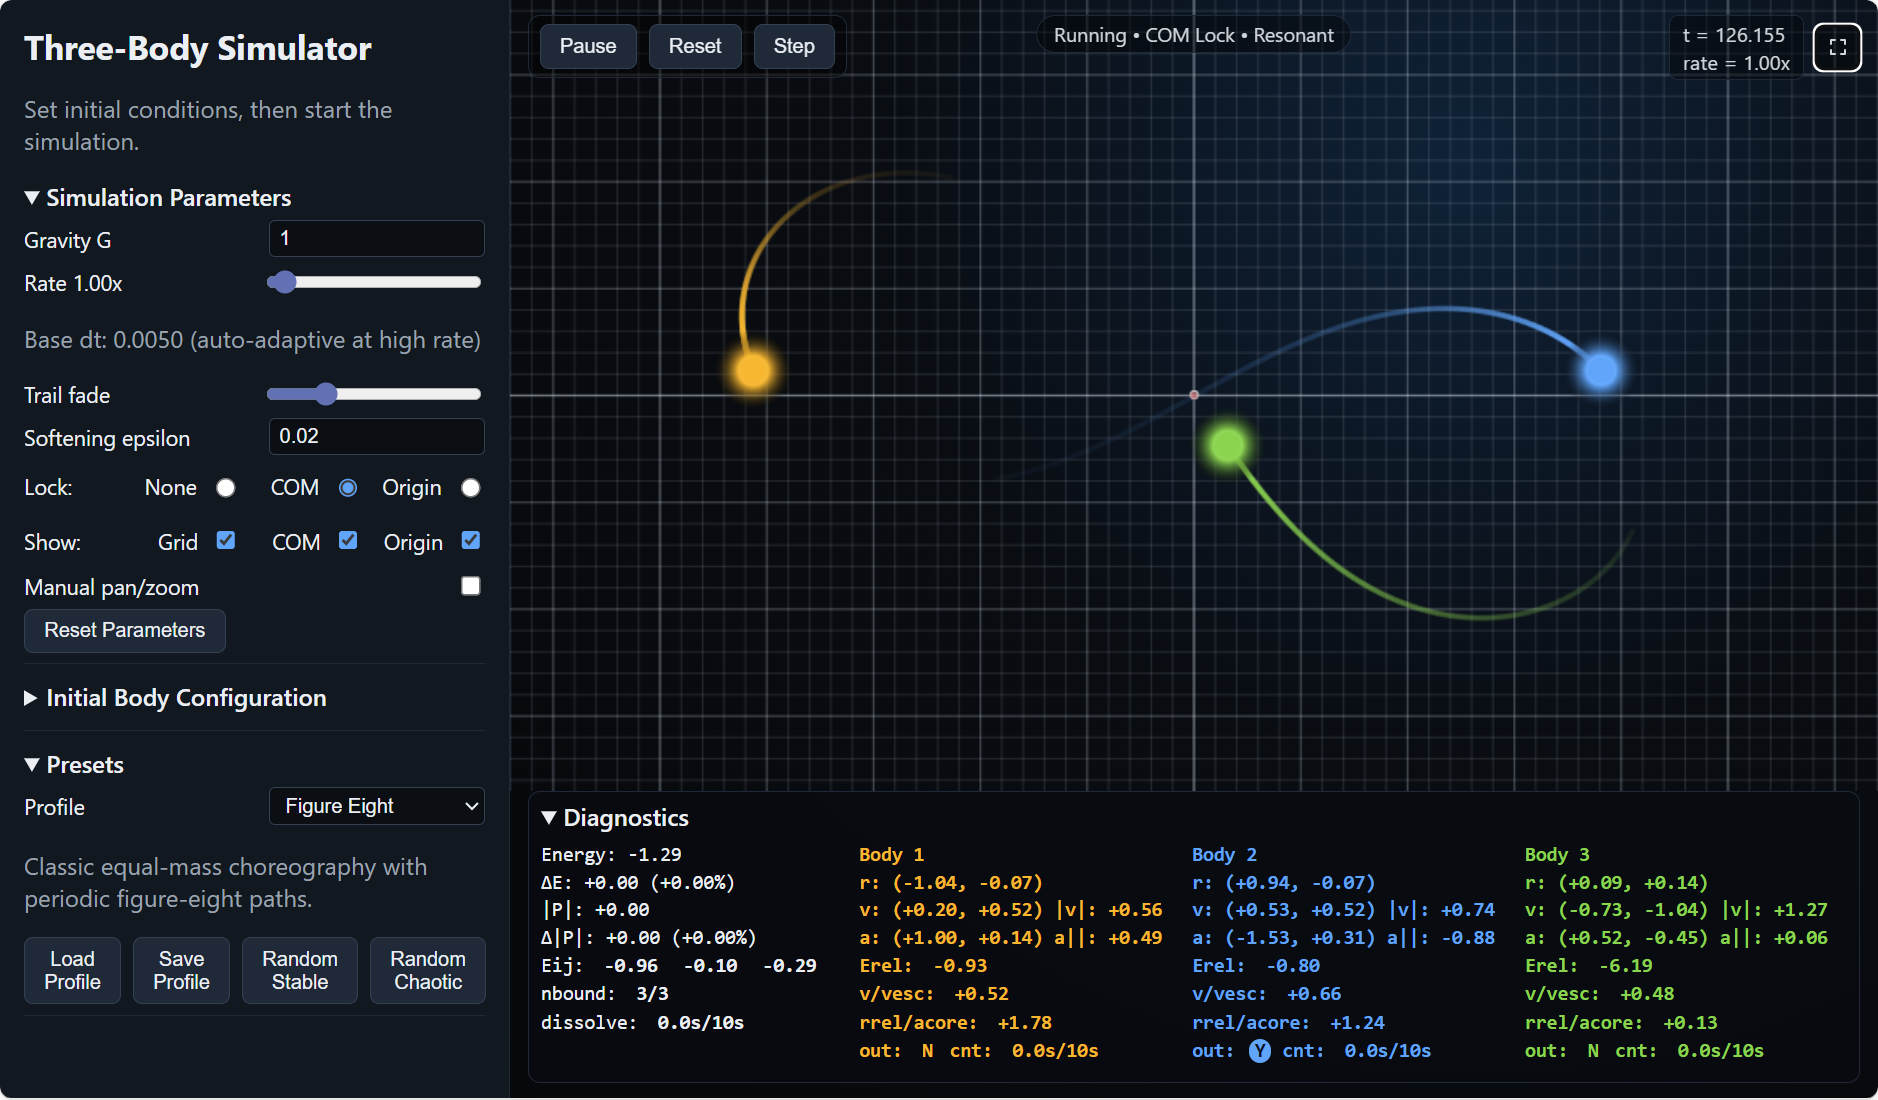
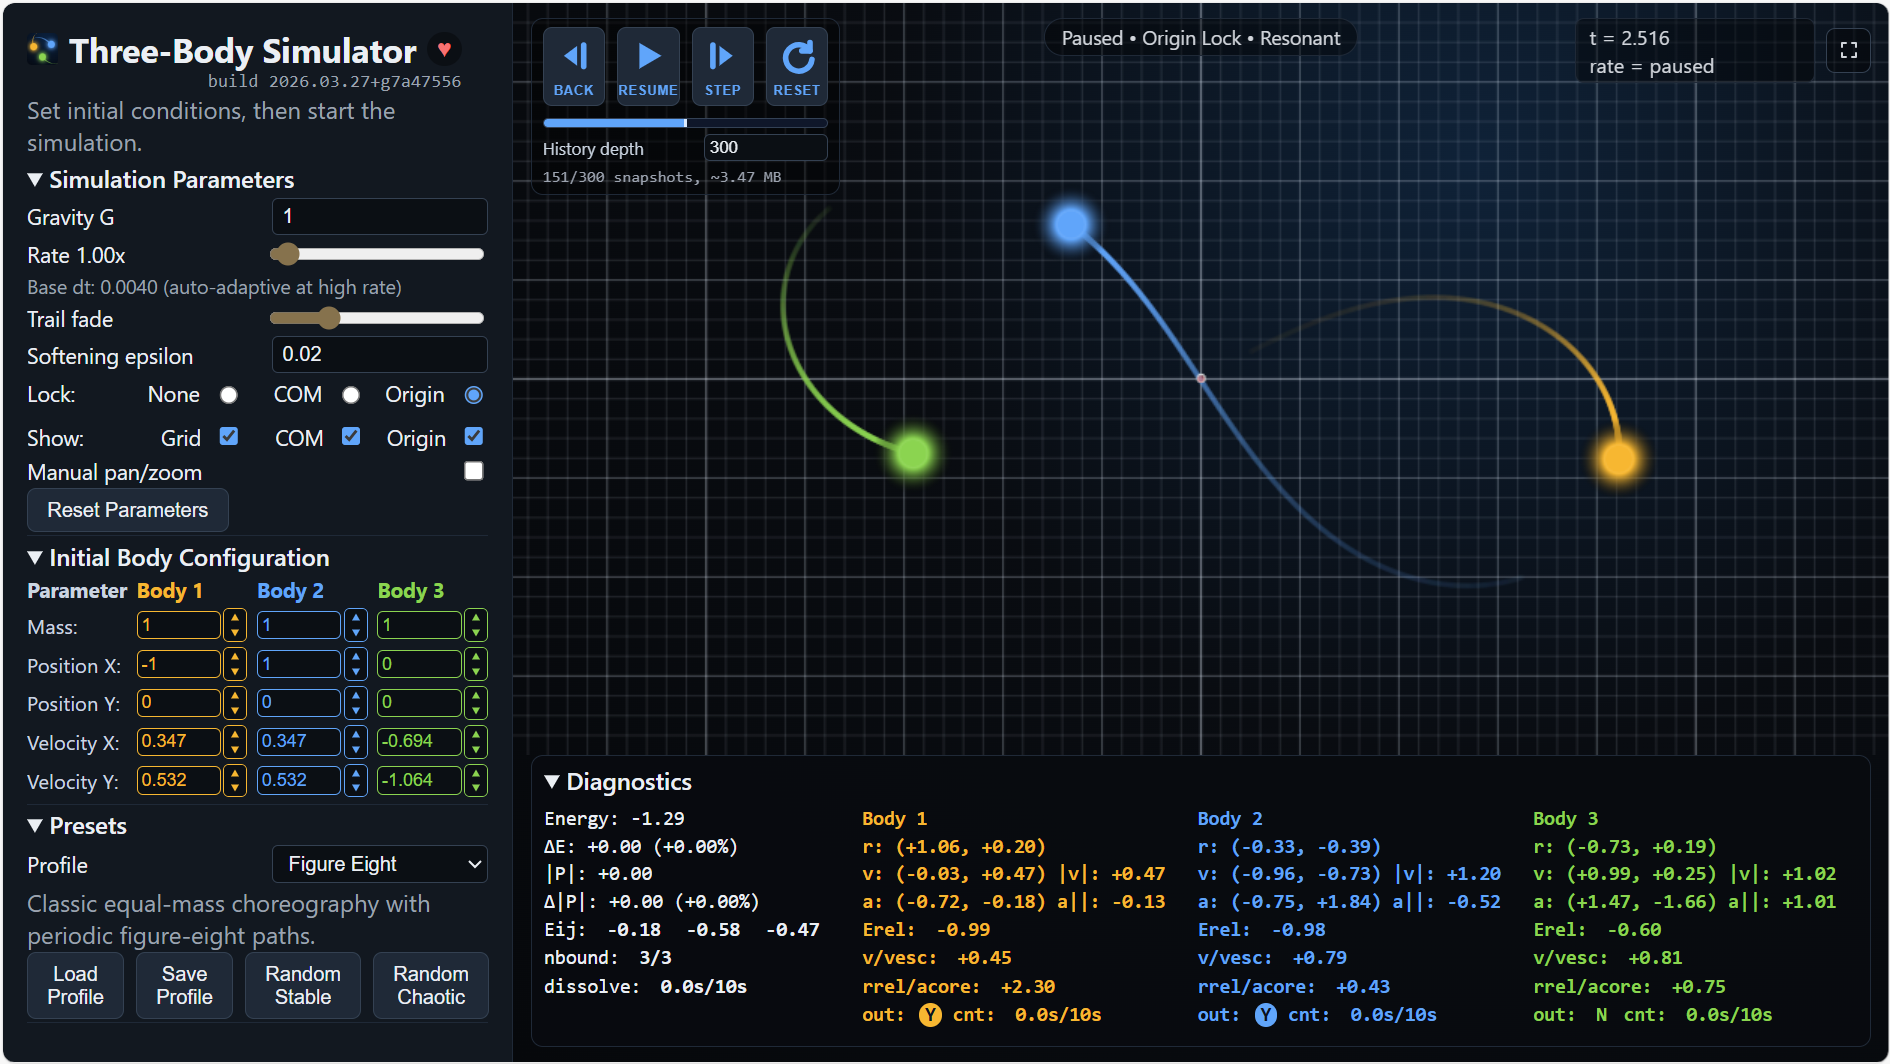
docs(docs): sync architecture and controls documentation
- document snapshot-backed rewind and hold-to-accelerate stepping behavior
- update `docs/ARCHITECTURE.md` file map with new `src/` modules and expanded `tests/unit/` coverage files
- update `docs/README.md` features and controls to include `Back`, history depth, and current hotkeys (`Space`, `Left Arrow`, `Right Arrow`, `G`, `C`, `O`)

diff --git a/docs/ARCHITECTURE.md b/docs/ARCHITECTURE.md
@@ -8,6 +8,8 @@ This document contains the detailed project structure map.
 - Integrator is Velocity Verlet (`src/sim/integrators.ts`).
 - Ejection logic requires sustained strong-escape conditions before flagging a body as ejected.
 - Dissolution is detected when no pair remains bound long enough, then the simulation pauses.
+- Rewind is snapshot-backed: each simulation step can be restored from history with a configurable buffer depth.
+- Step forward/back supports hold acceleration from both keyboard hotkeys and pointer press-and-hold.
 
 ## Persistence
 
@@ -24,6 +26,8 @@ The app stores UI and user data in browser `localStorage`, including:
 ```text
 src/                                   # Application source code
   App.tsx                              # Composition root and high-level wiring
+  config/                              # App-level constants and external links
+    appLinks.ts                        # External destination links used by UI actions
   main.tsx                             # React entry point
   styles.css                           # Layout and visual styling
   vite-env.d.ts                        # Vite ambient types and compile-time constants
@@ -53,6 +57,7 @@ src/                                   # Application source code
     diagnosticsSelectors.ts            # Diagnostics view-model selectors/helpers
     simulationPolicies.ts              # Shared runtime policy constants/helpers
     simulationFrame.ts                 # Per-frame simulation pipeline (step/camera/render/hover gating)
+    simulationHistory.ts               # Snapshot history push/pop/restore and history metrics helpers
     stageSelectors.ts                  # Stage status/bound-pair labeling selectors
     simulationTick.ts                  # Per-frame stepping transition logic
     types.ts                           # Canonical shared simulation/domain types
@@ -70,6 +75,8 @@ src/                                   # Application source code
     ControlPanel.tsx                   # Control panel composition
     EditProfileDialog.tsx              # Edit-profile modal
     SaveProfileDialog.tsx              # Save-profile modal
+    sponsorPage.ts                     # Sponsor link opener with window-target policy
+    stepAcceleration.ts                # Shared hold-to-accelerate burst thresholds and state
     controlPanel/                      # Control panel sections and shared inputs
       BodyConfigurationSection.tsx     # Body mass/position/velocity editors
       PresetsSection.tsx               # Preset selection/apply/random/save controls
@@ -97,6 +104,8 @@ src/                                   # Application source code
     useStageViewport.ts                # Canvas container/viewport sizing hook
 tests/                                 # Automated test suites
   unit/                                # Unit tests by feature area
+    render/                            # Unit tests for rendering modules
+      canvasRenderer.test.ts           # Unit tests for render orchestration and trail behavior
     sim/                               # Unit tests for simulation modules
       camera.test.ts                   # Unit tests for camera transforms and updates
       cameraPolicy.test.ts             # Unit tests for auto-camera policy behavior
@@ -108,16 +117,27 @@ tests/                                 # Automated test suites
       integrators.test.ts              # Unit tests for velocity Verlet integration
       physics.test.ts                  # Unit tests for accelerations/energy/momentum
       presetStorage.test.ts            # Unit tests for storage wrapper load/save behavior
+      presetStorageCodecs.test.ts      # Unit tests for persisted-data decoding/sanitization codecs
       presets.test.ts                  # Unit tests for body clone helper behavior
       profileValidation.test.ts        # Unit tests for saved profile validation rules
+      randomProfiles.test.ts           # Unit tests for random profile generation invariants
       sessionTransitions.test.ts       # Unit tests for runtime transition helpers
+      simulationFrame.test.ts          # Unit tests for per-frame simulation/render coordination
+      simulationHistory.test.ts        # Unit tests for snapshot history clamp/push/pop/restore behavior
       simulationPolicies.test.ts       # Unit tests for simulation policy helpers
       simulationTick.test.ts           # Unit tests for per-step simulation updates
       stageSelectors.test.ts           # Unit tests for stage status selector helpers
       types.test.ts                    # Unit tests for lock-mode type-guard validation
+      useDraftEditPolicy.test.ts       # Unit tests for stopped-world edit policy and history clearing
+      useSimulationLoop.test.ts        # Unit tests for RAF loop orchestration and lifecycle behavior
       vector.test.ts                   # Unit tests for vector utility functions
       worldState.test.ts               # Unit tests for stopped-world construction helpers
     ui/                                # Unit tests for UI modules
+      sponsorPage.test.ts              # Unit tests for sponsor window-opening behavior
+      stageControls.test.tsx           # Unit tests for stage controls hold acceleration/disabled back state
+      uiPrefsStorage.test.ts           # Unit tests for UI preference persistence helpers
+      useAppViewModels.test.ts         # Unit tests for app-level stage/diagnostic view-model assembly
+      useSimulationHotkeys.test.ts     # Unit tests for hotkey dispatch and hold acceleration behavior
       controlPanel/                    # Unit tests for control-panel helpers
         numberInputPrecision.test.ts   # Unit tests for decimal precision parsing/clamping
       diagnostics/                     # Unit tests for diagnostics UI helpers

diff --git a/docs/README.md b/docs/README.md
@@ -19,6 +19,8 @@ The app renders three gravitating bodies on a canvas with trails, diagnostics, p
 - Ejection detection and dissolution detection with auto-pause
 - Diagnostics for energy/momentum drift, pair energies, and per-body kinematics
 - Camera lock modes (`None`, `COM`, `Origin`) plus manual pan/zoom
+- Snapshot-backed rewind (`Back`) with configurable history depth and usage metrics
+- Hold-to-accelerate stepping for both forward and backward step controls
 
 ## Tech Stack
 
@@ -86,14 +88,22 @@ Tests may import app modules via the `~` alias (for example `~/src/sim/physics`)
 ### Simulation
 
 - `Start / Pause / Resume` to control time evolution
+- `Back` to rewind one captured simulation frame
 - `Step` to advance one integration step
 - `Reset` to reset to current initial conditions
+- `History depth` input to set rewind buffer size (with live snapshot/memory usage feedback)
 
 ### Keyboard shortcuts
 
+- `Space`: start / pause / resume
 - `+` or `=` or numpad `+`: increase simulation rate
 - `-` or `_` or numpad `-`: decrease simulation rate
+- `Right Arrow`: step forward (hold to accelerate burst stepping)
+- `Left Arrow`: step backward when history exists (hold to accelerate burst stepping)
 - `L`: cycle lock mode (`None -> COM -> Origin`)
+- `G`: toggle grid
+- `C`: toggle center-of-mass marker
+- `O`: toggle origin marker
 - `Esc`: exit manual pan/zoom mode
 
 ### Canvas interaction
